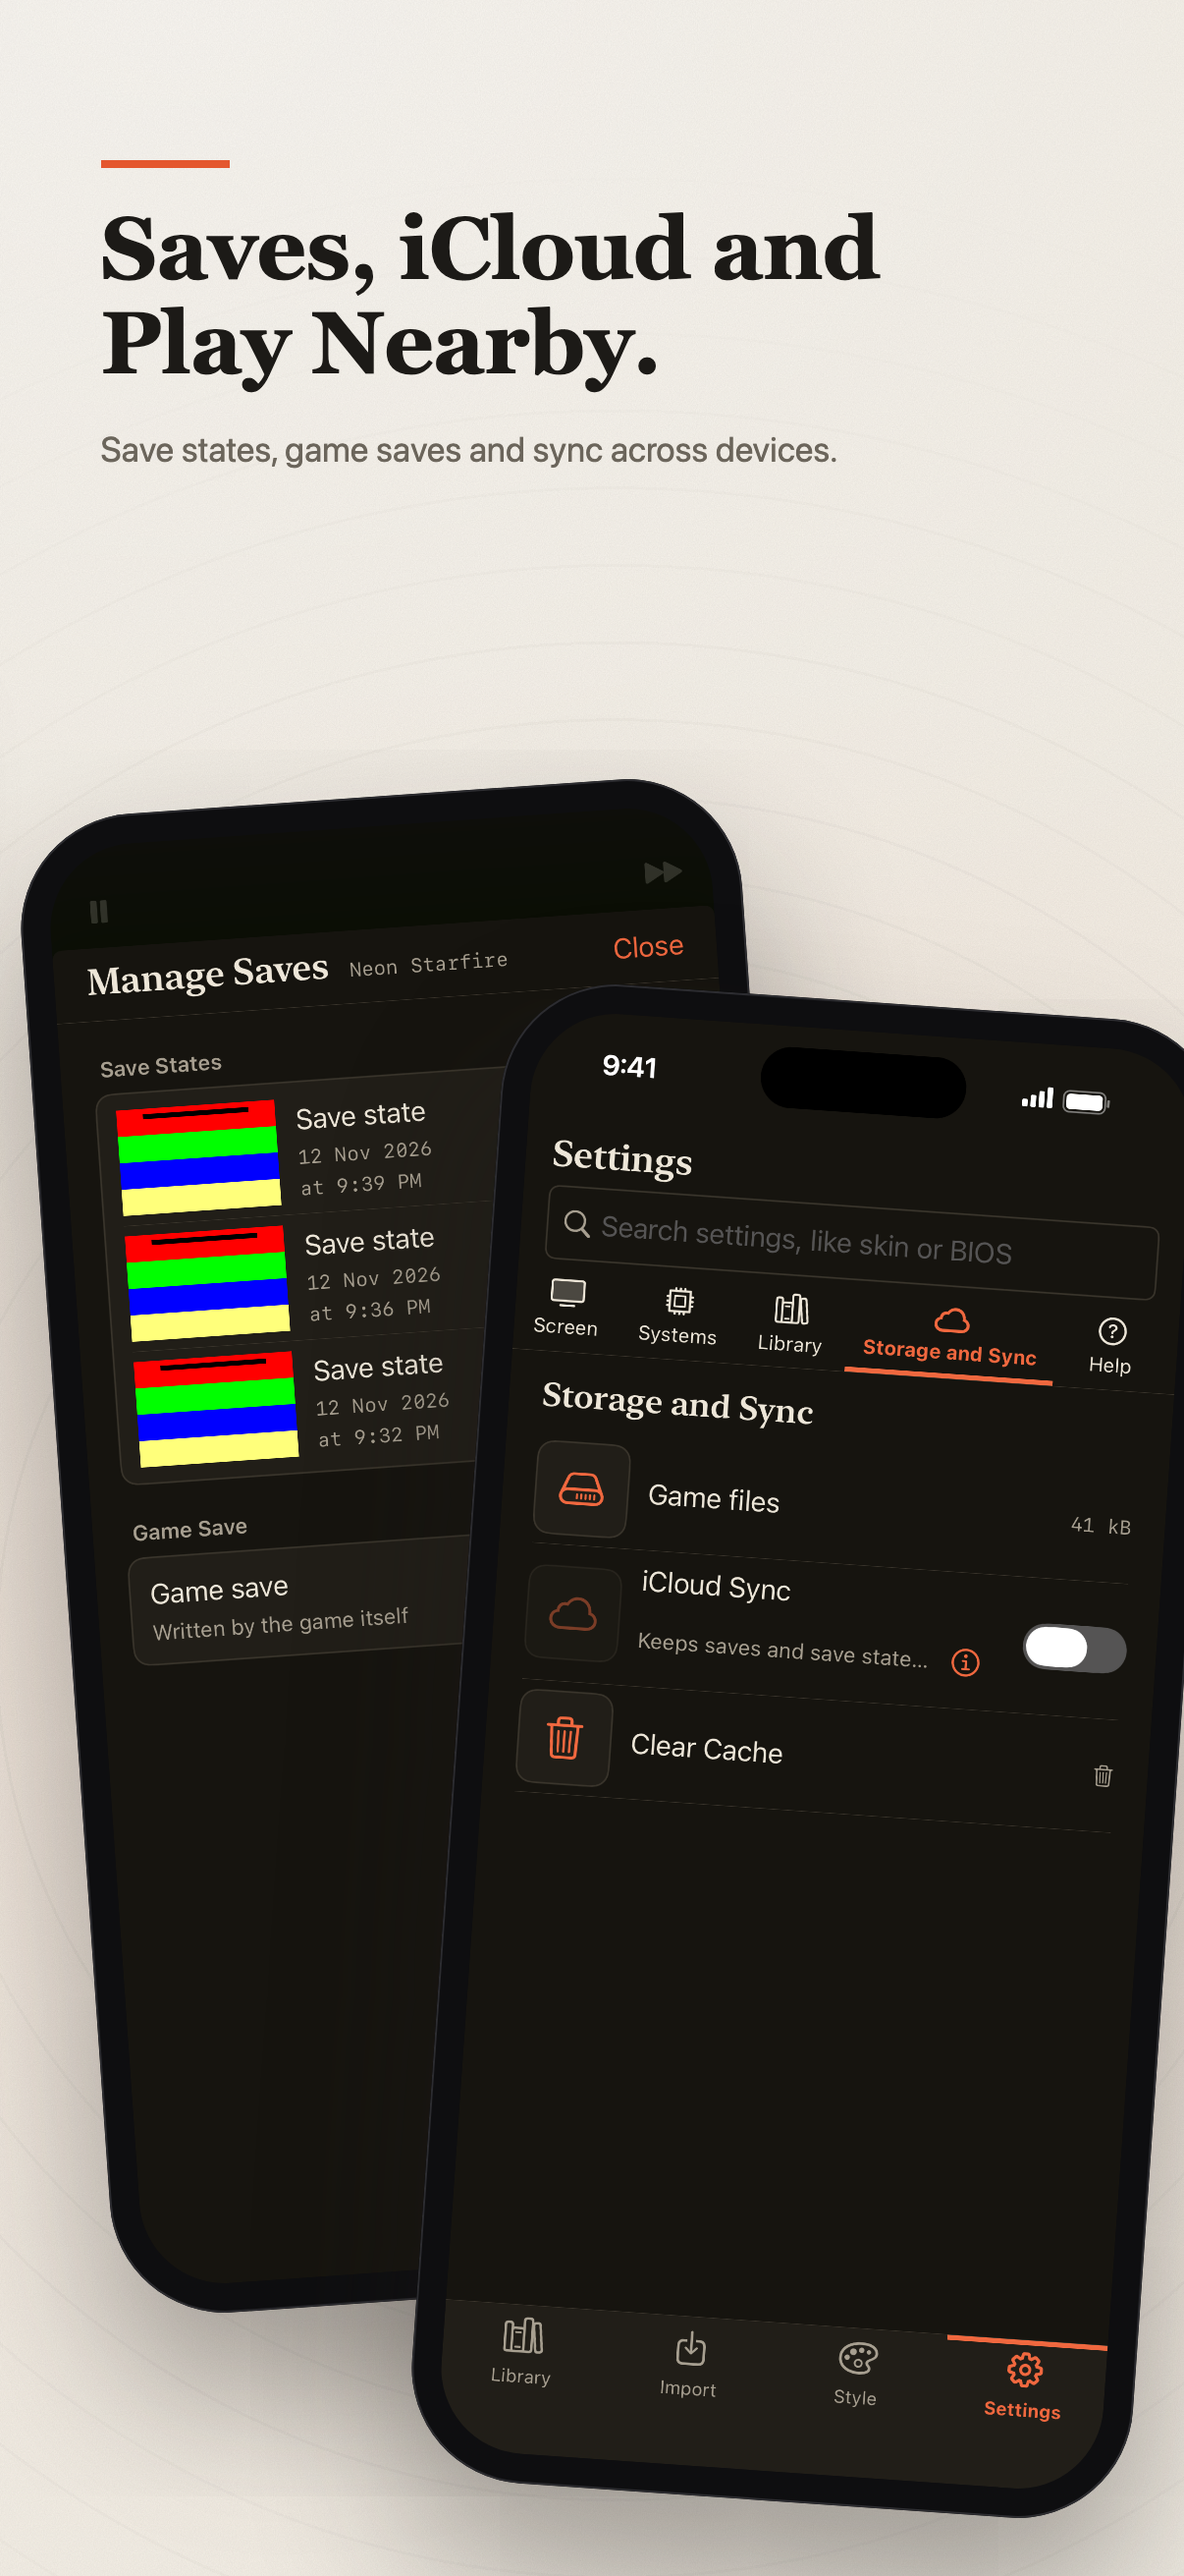
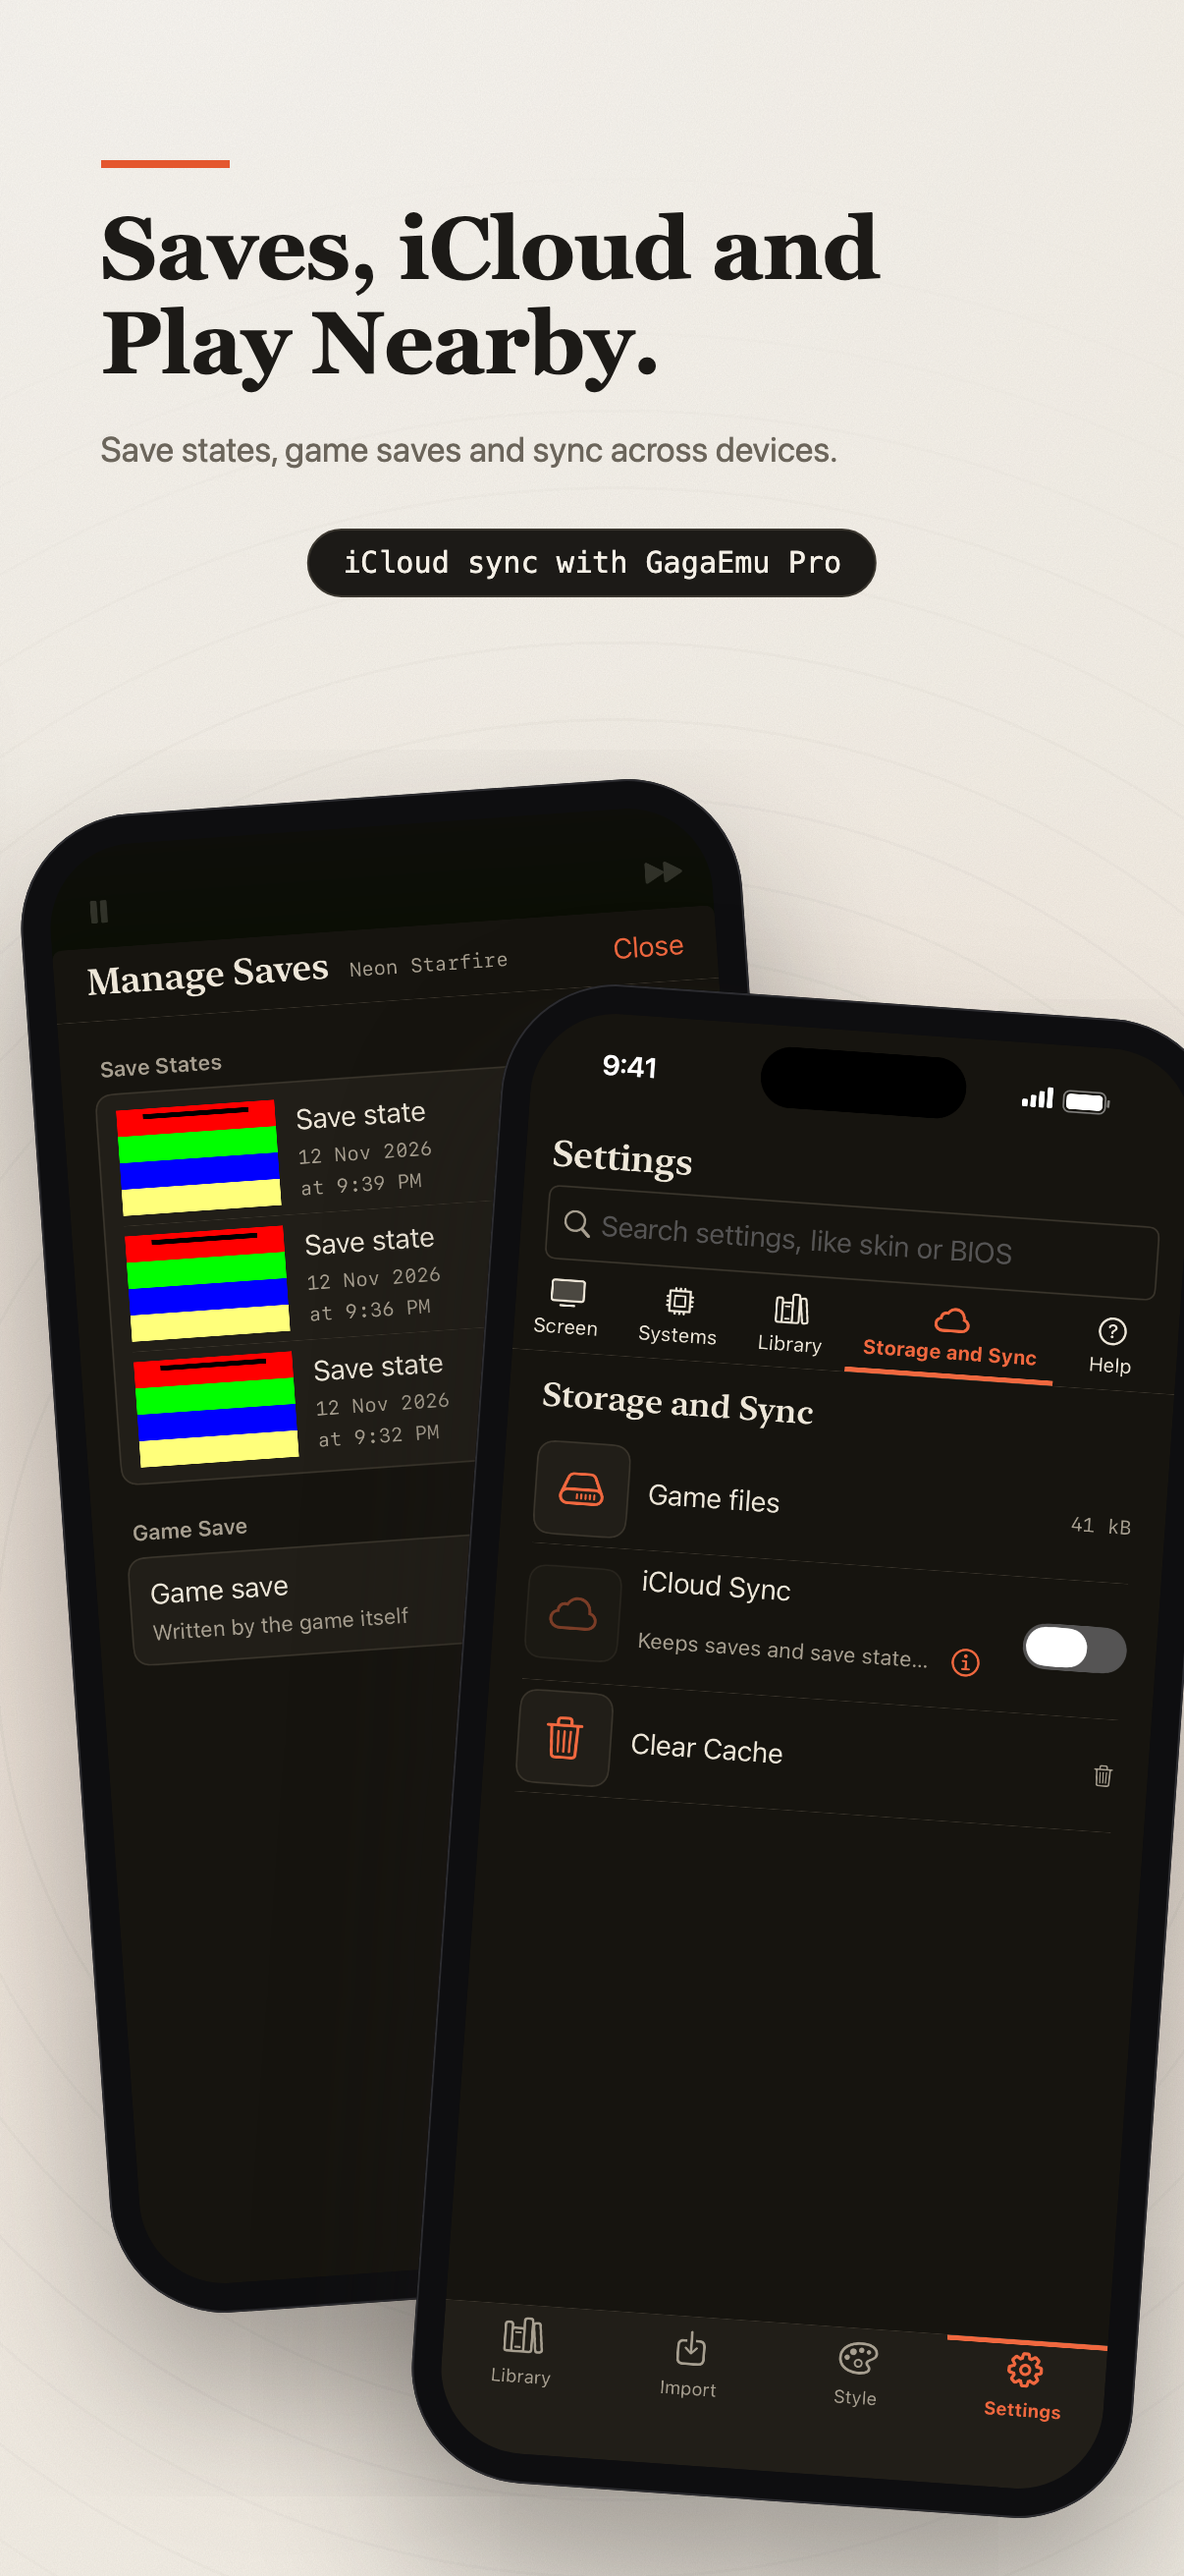
feat(store): App Review listing: EULA and privacy links, 30 cores, no-trial subscription terms, accurate review notes and promo text, USES_THIRD_PARTY_CONTENT, iPad 13-inch shots from iPad simulator captures with an iPad frame, Pro chips on shots 7 and 9, in AppStore/, design/store/store.html and sc

Changed region(s): [[0.2454, 0.1854, 0.7363, 0.2471]]

diff --git a/scripts/store/prep_screens.swift b/scripts/store/prep_screens.swift
@@ -1,6 +1,7 @@
 // Turns the device captures of UITests testStoreShots into the screens the store render puts in its frames.
 //
 //     swift -O scripts/store/prep_screens.swift <captures-dir> [library-dy]
+//     swift -O scripts/store/prep_screens.swift --ipad <captures-dir>    iPad Pro 13-inch simulator, to screens-ipad
 //
 // [library-dy] moves the Library's two painted areas up or down, in pixels: the iPhone 17 simulator draws that page
 // 36 px higher than the device (-36). Default 0, the device.
@@ -17,11 +18,14 @@ import ImageIO
 import UniformTypeIdentifiers
 
 let root = URL(fileURLWithPath: #filePath).deletingLastPathComponent().deletingLastPathComponent().deletingLastPathComponent()
-guard (2...3).contains(CommandLine.arguments.count) else { print("usage: prep_screens.swift <captures-dir> [library-dy]"); exit(2) }
-let libraryDY = CommandLine.arguments.count == 3 ? Int(CommandLine.arguments[2])! : 0
-let caps = URL(fileURLWithPath: CommandLine.arguments[1])
+// --ipad: captures from the iPad Pro 13-inch simulator (2064x2752), written to design/store/screens-ipad.
+let ipad = CommandLine.arguments.contains("--ipad")
+let args = CommandLine.arguments.filter { $0 != "--ipad" }
+guard (2...3).contains(args.count) else { print("usage: prep_screens.swift [--ipad] <captures-dir> [library-dy]"); exit(2) }
+let libraryDY = args.count == 3 ? Int(args[2])! : 0
+let caps = URL(fileURLWithPath: args[1])
 let art = root.appendingPathComponent("design/store/source")
-let out = root.appendingPathComponent("design/store/screens")
+let out = root.appendingPathComponent(ipad ? "design/store/screens-ipad" : "design/store/screens")
 try FileManager.default.createDirectory(at: out, withIntermediateDirectories: true)
 let srgb = CGColorSpace(name: CGColorSpace.sRGB)!
 
@@ -172,6 +176,90 @@ func upright(_ b: Bitmap) -> Bitmap {
     ctx.rotate(by: .pi / 2)
     ctx.draw(img, in: CGRect(x: 0, y: 0, width: b.w, height: b.h))
     return Bitmap(cg: ctx.makeImage()!)
+}
+
+/// iPad: the status bar keeps time and date; the app name after them goes, the green charging battery becomes a plain
+/// full one, and the window's resize corner goes.
+func statusBarPad(_ b: inout Bitmap) {
+    cover(&b, 340, 12, 500, 54, sample: (338, 8))
+    cover(&b, 1952, 12, 2020, 54, sample: (2030, 8))
+    cover(&b, 1996, 2686, b.w, b.h, sample: (1990, 2746))
+    let H = Double(b.h)
+    b.draw { ctx in
+        ctx.setStrokeColor(CGColor(gray: 1, alpha: 0.45)); ctx.setLineWidth(2)
+        ctx.addPath(CGPath(roundedRect: CGRect(x: 1959, y: H - 44, width: 48, height: 24), cornerWidth: 7, cornerHeight: 7, transform: nil))
+        ctx.strokePath()
+        ctx.setFillColor(CGColor(gray: 1, alpha: 1))
+        ctx.addPath(CGPath(roundedRect: CGRect(x: 1962, y: H - 41, width: 42, height: 18), cornerWidth: 4.5, cornerHeight: 4.5, transform: nil))
+        ctx.fillPath()
+        ctx.setFillColor(CGColor(gray: 1, alpha: 0.45))
+        ctx.addPath(CGPath(roundedRect: CGRect(x: 2009, y: H - 36, width: 3, height: 8), cornerWidth: 1.5, cornerHeight: 1.5, transform: nil))
+        ctx.fillPath()
+    }
+}
+
+/// iPad pause sheets dim the game behind them: the dimmed bars become the art, dimmed the same way.
+func dimmedGame(_ b: inout Bitmap, _ name: String) {
+    // The bars' extent, from the strip left of the sheet (the sheet's orange text would pass for a dimmed bar).
+    var x0 = Int.max, y0 = Int.max, y1 = 0
+    for y in 0..<(b.h / 2) { for x in 0..<400 {
+        let (R, G, B) = b[x, y]
+        if (R > 50 && G < 20 && B < 20) || (G > 50 && R < 20 && B < 20) || (B > 50 && R < 20 && G < 20) || (R > 50 && G > 50 && B < 60) { x0 = min(x0, x); y0 = min(y0, y); y1 = max(y1, y) }
+    } }
+    let x1 = b.w - 1 - x0
+    let red = b[x0 + 40, y0 + 40], off = red.2, k = (red.0 - off) / 255
+    let a = fill(name, x1 + 1 - x0, y1 + 1 - y0)
+    for y in y0...y1 { for x in x0...x1 {
+        // Only pixels that are a dimmed bar (dark and saturated, or the near-black strip): the sheet over the game, its
+        // text and the dimmed pause buttons stay.
+        let c = b[x, y], mx = max(c.0, c.1, c.2), mn = min(c.0, c.1, c.2)
+        guard (mx - mn > 25 && mx < 120) || mx < 14 else { continue }
+        let p = a[x - x0, y - y0]
+        b[x, y] = (p.0 * k + off, p.1 * k + off, p.2 * k + off)
+    } }
+}
+
+if ipad {
+    // Library: no system chip, no system on the Continue card.
+    var library = cap(1)
+    statusBarPad(&library)
+    cover(&library, 668, 200, 776, 272, sample: (720, 194))
+    cover(&library, 24, 764, 220, 810, sample: (14, 787))
+    save(library, "library.png")
+
+    var play = cap(4)
+    game(&play, barsRect(play, within: (0, 0, play.w, play.h / 2)), "game-16bit.png", unmix: true)
+    save(play, "play-portrait.png")
+
+    let land = upright(cap(5))
+    let landBars = barsRect(land, within: (0, 0, land.w, land.h))
+    for (artName, name) in [("game-shooter.png", "play-landscape.png"), ("game-3d.png", "play-landscape-3d.png")] {
+        var b = land
+        game(&b, landBars, artName, unmix: true)
+        save(b, name)
+    }
+
+    var filter = cap(8)
+    statusBarPad(&filter)
+    game(&filter, barsRect(filter, within: (660, 150, 1540, 2700)), "game-handheld.png", unmix: false)
+    save(filter, "filter.png")
+
+    // Pause sheets: the core's name on the Core Options tile behind each; the cheat formats; the skin's system.
+    for (n, name) in [(7, "saves.png"), (9, "cheats.png"), (10, "skin.png")] {
+        var b = cap(n)
+        dimmedGame(&b, "game-16bit.png")
+        cover(&b, 836, 2390, 930, 2428, sample: (832, 2410))
+        if n == 9 { cover(&b, 476, 1184, 1590, 1266, sample: (470, 1225)) }
+        if n == 10 { cover(&b, 540, 922, 820, 964, sample: (532, 943)) }
+        save(b, name)
+    }
+
+    for (n, name) in [(14, "controllers.png"), (15, "sync.png")] {
+        var b = cap(n)
+        statusBarPad(&b)
+        save(b, name)
+    }
+    exit(0)
 }
 
 // Library: no system chip, no details line on the Continue card.

diff --git a/design/store/store.html b/design/store/store.html
@@ -29,7 +29,10 @@ const q = new URLSearchParams(location.search);
 const W = +q.get("w") || 1320, H = +q.get("h") || 2868;
 const shot = +q.get("shot") || 1, artKind = q.get("art");
 const pano = document.getElementById("pano");
-const SCREEN = 2622 / 1206;   // the iPhone captures: height / width
+// ?ipad=1 (render.py, ipad-13): iPad frames round the iPad captures in design/store/screens-ipad.
+const IPAD = q.get("ipad") === "1";
+const SCREEN = IPAD ? 2752 / 2064 : 2622 / 1206;   // the captures: height / width
+const P = (phoneValue, ipadValue) => IPAD ? ipadValue : phoneValue;
 
 function el(tag, cls, css, html) {
   const e = document.createElement(tag);
@@ -64,11 +67,12 @@ function sheet(s, n, { dark = false, tone, cx = 0.5, cy = 0.7, wash = 0.7 } = {}
                      backgroundSize: `${px(H * 0.09)} ${px(H * 0.09)}` });
 }
 
-/// An iPhone in a CSS frame. h: screen height (portrait) or screen width (landscape) as a fraction of H.
+/// An iPhone (or with ?ipad=1 an iPad: slimmer bezel, smaller corners) in a CSS frame. h: screen height (portrait)
+/// or screen width (landscape) as a fraction of H.
 function phone(s, x, y, h, src, { rot = 0, land = false, z = 3 } = {}) {
-  const long = h * H, short = long / SCREEN, bez = short * 0.045;
+  const long = h * H, short = long / SCREEN, bez = short * P(0.045, 0.028);
   const sw = land ? long : short, sh = land ? short : long;
-  const fw = sw + 2 * bez, fh = sh + 2 * bez, r = Math.min(fw, fh) * 0.16;
+  const fw = sw + 2 * bez, fh = sh + 2 * bez, r = Math.min(fw, fh) * P(0.16, 0.06);
   const d = el("div", "dev", { left: px(X(s, x) - fw / 2), top: px(y * H - fh / 2), width: px(fw), height: px(fh),
                                borderRadius: px(r), transform: `rotate(${rot}deg)`, zIndex: z });
   const img = document.createElement("img");
@@ -119,7 +123,7 @@ function glow(s, x, y, r, color) {
 
 // Real box art (scripts/store/real_covers.swift), always thumbnail-sized: never the hero.
 const C = n => `source/covers-real/cover-${String(n).padStart(2, "0")}.png`;
-const S = n => `screens/${n}.png`;
+const S = n => `${P("screens", "screens-ipad")}/${n}.png`;
 /// A small cover, w as a fraction of H, 3:4.
 const cover = (s, x, y, w, n, rot = 0, z = 2) => card(s, x, y, w, C(n), { rot, aspect: 3 / 4, z, radius: 0.004 });
 
@@ -144,7 +148,7 @@ function storeShots() {
   // 3: the Library.
   sheet(3, 1, { cy: 0.62 });
   caption(3, "One shelf for the<br>games you own.", "Your own covers, sorted the way you like.");
-  phone(3, 0.5, 0.62, 0.68, S("library"), { rot: 0, z: 3 });
+  phone(3, 0.5, P(0.62, 0.6), P(0.68, 0.72), S("library"), { rot: 0, z: 3 });
   cover(3, 0.13, 0.4, 0.07, 8, -8);
   cover(3, 0.87, 0.8, 0.07, 5, 7, 4);
 
@@ -159,28 +163,30 @@ function storeShots() {
   // 6: skins.
   sheet(6, 1, { dark: true, cx: 0.38, cy: 0.62, wash: 1 });
   caption(6, "A skin for<br>every grip.", "Standard, low reach or two big buttons.", { dark: true });
-  phone(6, 0.38, 0.62, 0.62, S("skin"), { rot: -3, z: 3 });
-  card(6, 0.8, 0.5, 0.14, "source/game-dual-top.png", { aspect: 1044 / 804, rot: 4, z: 4 });
-  card(6, 0.8, 0.61, 0.14, "source/game-dual-bottom.png", { aspect: 1044 / 779, rot: 4, z: 4 });
-  chip(6, 0.79, 0.69, "Two screens, too");
+  phone(6, 0.38, 0.62, P(0.62, 0.6), S("skin"), { rot: -3, z: 3 });
+  card(6, P(0.8, 0.85), 0.5, 0.14, "source/game-dual-top.png", { aspect: 1044 / 804, rot: 4, z: 4 });
+  card(6, P(0.8, 0.85), 0.61, 0.14, "source/game-dual-bottom.png", { aspect: 1044 / 779, rot: 4, z: 4 });
+  chip(6, P(0.79, 0.84), 0.69, "Two screens, too");
 
   // 7: filters.
   sheet(7, 1, { cx: 0.55, cy: 0.66 });
   caption(7, "CRT and LCD<br>filters, live.", "Try each one on your game before you pick.");
-  card(7, 0.5, 0.31, 0.3, "source/game-16bit.png", { aspect: 2000 / 1493, rot: -4, z: 2 });
+  card(7, 0.5, 0.345, 0.3, "source/game-16bit.png", { aspect: 2000 / 1493, rot: -4, z: 2 });
   phone(7, 0.55, 0.66, 0.6, S("filter"), { rot: 2, z: 3 });
+  chip(7, 0.5, 0.19, "Full filter catalogue with GagaEmu Pro", { dark: true });
 
   // 8: per-game options and cheats.
   sheet(8, 1, { tone: "var(--surface)", cx: 0.47, cy: 0.64 });
   caption(8, "Options and cheats<br>for each game.", "Add a code or import a .cht file.");
-  cover(8, 0.84, 0.31, 0.075, 10, 6);
+  cover(8, P(0.84, 0.86), P(0.31, 0.26), 0.075, 10, 6);
   phone(8, 0.47, 0.64, 0.64, S("cheats"), { rot: -2, z: 3 });
 
   // 9: saves, sync, nearby.
   sheet(9, 1, { cx: 0.52, cy: 0.64 });
   caption(9, "Saves, iCloud and<br>Play Nearby.", "Save states, game saves and sync across devices.");
-  phone(9, 0.36, 0.6, 0.56, S("saves"), { rot: -4, z: 3 });
-  phone(9, 0.69, 0.68, 0.56, S("sync"), { rot: 4, z: 4 });
+  phone(9, P(0.36, 0.33), P(0.6, 0.56), P(0.56, 0.46), S("saves"), { rot: -4, z: 3 });
+  phone(9, P(0.69, 0.67), P(0.68, 0.7), P(0.56, 0.46), S("sync"), { rot: 4, z: 4 });
+  chip(9, 0.5, 0.205, "iCloud sync with GagaEmu Pro", { dark: true });
 }
 
 function artwork(kind) {

diff --git a/scripts/store/render.py b/scripts/store/render.py
@@ -53,7 +53,8 @@ def main():
             out = ROOT / "AppStore/screenshots/en-US" / folder
             out.mkdir(parents=True, exist_ok=True)
             for shot in range(1, 10):
-                chrome(f"{PAGE.as_uri()}?w={w}&h={h}&shot={shot}", (w, h), out / f"{shot:02d}.png", tmp)
+                ipad = "&ipad=1" if folder.startswith("ipad") else ""   # iPad frames and design/store/screens-ipad
+                chrome(f"{PAGE.as_uri()}?w={w}&h={h}&shot={shot}{ipad}", (w, h), out / f"{shot:02d}.png", tmp)
             print(f"{folder}: 9 shots, {w}x{h}")
         for name, (w, h) in ART.items():
             if only and only != name:
